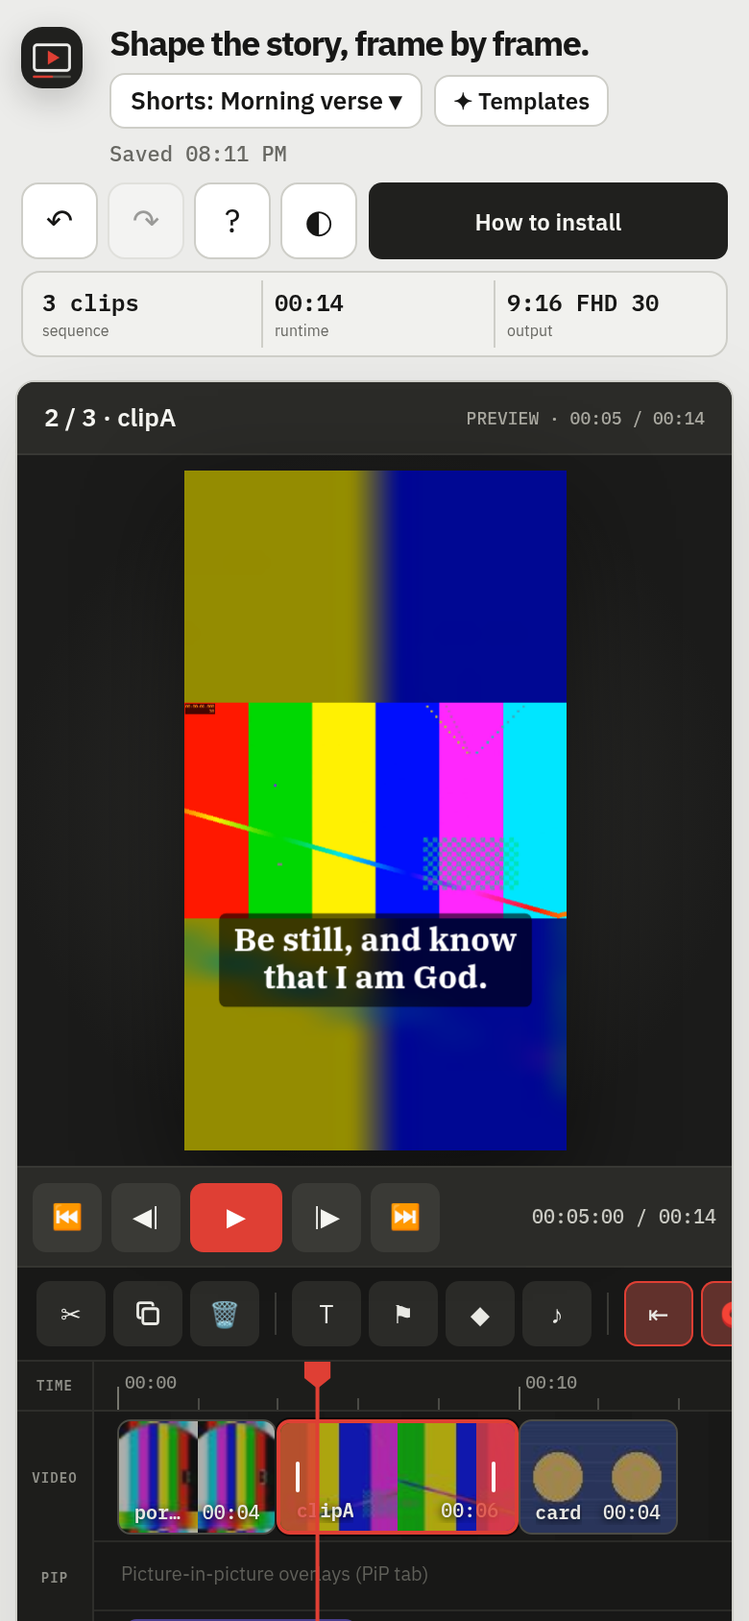
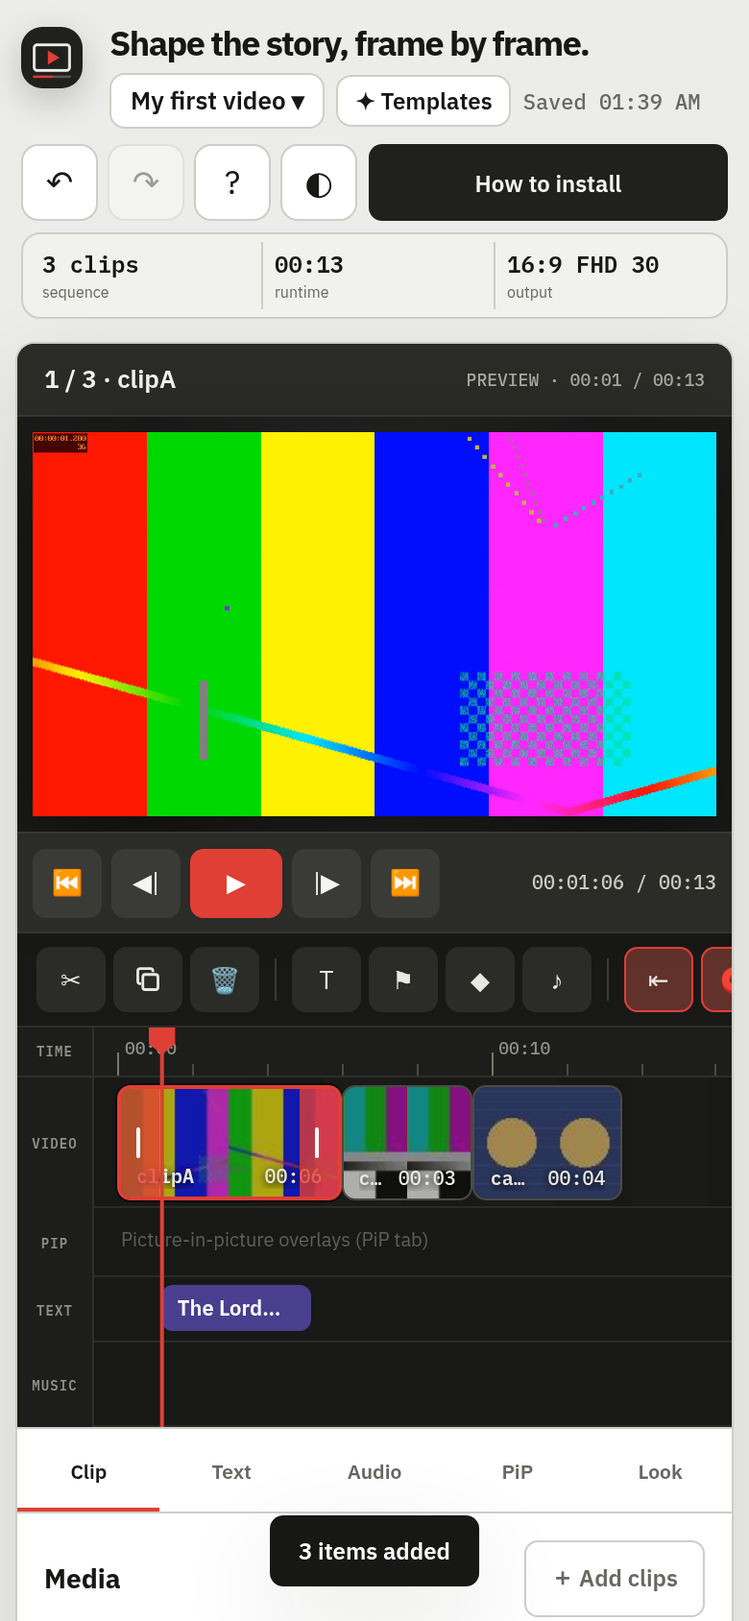
Remove the YouTube Studio link and the YouTube details tab
- Publish row: Thumbnail maker + Export only (full-width stack on phones)
- YouTube tab (title, description, tags, chapters, marker list, copy buttons) removed; chapters() removed
- Markers stay on the timeline (M / Marker button, drag, Delete); new markers are named 'Marker n'
- Export and thumbnail file names, share title and MP4 metadata use the project name
- Old saves keep their youtube data untouched and load normally; 16:9 option unchanged
- Tabs bar now 5 columns; README and tests updated

diff --git a/js/app.js b/js/app.js
@@ -4,7 +4,7 @@ import { db, mediaIdsOf, setKeepProvider } from './db.js';
 import { media, kindOf, isHeic, isMediaDataURL, seekVideo } from './media.js';
 import {
   newProject, migrate, layout, clipAt, clipLen, audioLen, newClipFromMedia, newText, newAudio, removeClip, duplicateClip,
-  moveClip, rippleShift, chapters, History, PRESETS, FONTS, outputDims, defaultColor, defaultTransform, MIN_CLIP,
+  moveClip, rippleShift, History, PRESETS, FONTS, outputDims, defaultColor, defaultTransform, MIN_CLIP,
   newOverlay, overlayLen, animated, hasKeyframes, setKeyframe, kfTimes, removeKeyframesAt, setEaseAt, ANIM_PROPS, normalizeClip,
   splitItem, audioSpan, rebaseKeyframes,
 } from './model.js';
@@ -98,7 +98,7 @@ app.seek = (t) => { player.setTime(t); };
 app.select = (sel, opts = {}) => {
   app.selection = sel;
   if (sel) {
-    const tab = { clip: 'clip', text: 'text', audio: 'audio', marker: 'youtube', overlay: 'pip' }[sel.type];
+    const tab = { clip: 'clip', text: 'text', audio: 'audio', overlay: 'pip' }[sel.type];
     if (tab) showTab(tab);
     if (opts.seekInto) {
       const t = player.t;
@@ -249,7 +249,6 @@ function afterSet(path, obj, old, before) {
   if (path === 'ovl.speed') obj.speed = clamp(Number(obj.speed) || 1, 0.25, 4);
   if (path === 'text.anim.in' || path === 'text.anim.out') { const t = selected('text'); const d = t.end - t.start; if (t.anim.inDur + t.anim.outDur > d) { t.anim.inDur = Math.min(t.anim.inDur, d * 0.6); t.anim.outDur = Math.min(t.anim.outDur, d * 0.35); } }
   if (path === 'proj.settings.ratio' || path === 'proj.settings.res') sizeStage();
-  if (path === 'proj.youtube.title' || path === 'proj.youtube.tags') updateCounts();
   if (path.startsWith('proj.settings.') && ['res', 'fps', 'quality', 'format'].includes(path.split('.')[2])) refreshCaps();
 }
 const FMT = {
@@ -361,17 +360,6 @@ function fillInspector() {
   $('logoPanel').hidden = !p.logo; $('logoHint').hidden = !!p.logo;
   const sel = !!app.selection;
   qsa('.tl-toolbar [data-action=duplicate], .tl-toolbar [data-action=delete]').forEach(b => b.disabled = !sel);
-  updateCounts();
-  renderChapters();
-}
-function updateCounts() {
-  $('titleCount').textContent = (app.project.youtube.title || '').length + '/100';
-  $('tagCount').textContent = (app.project.youtube.tags || '').length + '/500';
-}
-function renderChapters() {
-  const ch = chapters(app.project);
-  $('chaptersOut').textContent = ch.text || '—';
-  $('chapterWarn').textContent = ch.warnings.join(' ');
 }
 // Side-panel lists: rebuilt only when what they show changed (they're refreshed on every slider input event).
 const listKeys = {};
@@ -399,16 +387,6 @@ function renderLists(light) {
   const ovs = (p.overlays || []).map(o => ({ o, key: [o.id, o.name, !!(o.chroma && o.chroma.enabled), fmt(o.start), fmt(overlayLen(o)), isSel('overlay', o.id)] }));
   renderList('overlayList', ovs, ({ o }) => { const keyed = o.chroma && o.chroma.enabled; return listItem(isSel('overlay', o.id), `Overlay ${o.name}, ${fmt(o.start)}`, () => app.select({ type: 'overlay', id: o.id }, { seekInto: true }),
     el('span', { class: 'item-ico', title: keyed ? 'Green screen' : 'Picture-in-picture' }, icon(keyed ? 'key' : 'pip')), el('span', { class: 'grow', text: o.name }), el('span', { class: 't', text: fmt(o.start) + ' · ' + fmt(overlayLen(o)) })); });
-  if (light) return;
-  const ml = $('markerList'); ml.replaceChildren();
-  [...p.markers].sort((a, b) => a.time - b.time).forEach(m => {
-    const name = el('input', { value: m.name || '', 'aria-label': 'Marker name', placeholder: 'Chapter name' });
-    name.addEventListener('change', () => { m.name = name.value; app.commit('Rename marker'); });
-    ml.append(el('div', { class: 'item' + (sel.type === 'marker' && sel.id === m.id ? ' selected' : '') },
-      el('button', { type: 'button', class: 't', text: fmt(m.time), title: 'Jump', onclick: () => { app.select({ type: 'marker', id: m.id }); player.setTime(m.time); } }),
-      name,
-      el('button', { type: 'button', text: '✕', 'aria-label': 'Delete marker', onclick: () => { p.markers = p.markers.filter(x => x !== m); app.commit('Delete marker'); } })));
-  });
 }
 
 // trim controls
@@ -504,11 +482,9 @@ const actions = {
   deleteAudio() { const a = selected('audio'); if (!a) return; app.project.audio = app.project.audio.filter(x => x !== a); app.selection = null; app.commit('Remove music'); },
   addMarker() {
     const t = player.t;
-    const n = app.project.markers.length + 1;
-    const it = clipAt(layout(app.project), t);
-    const m = { id: uid('mk'), time: t, name: it && app.project.markers.length ? 'Chapter ' + (n) : (t < 0.5 ? 'Intro' : 'Chapter ' + n) };
+    const m = { id: uid('mk'), time: t, name: 'Marker ' + (app.project.markers.length + 1) };
     app.project.markers.push(m); app.selection = { type: 'marker', id: m.id };
-    app.commit('Add marker'); toast('Marker added at ' + fmt(t) + ' — rename it in the YouTube tab.');
+    app.commit('Add marker'); toast('Marker added at ' + fmt(t) + '. Drag it to move it, or select it and press Delete to remove it.');
   },
   removeLogo() { app.project.logo = null; app.commit('Remove logo'); },
   deleteOverlay() { const o = selected('overlay'); if (!o) return; app.project.overlays = app.project.overlays.filter(x => x !== o); app.selection = null; app.commit('Delete overlay'); },
@@ -1207,23 +1183,6 @@ $('themeBtn').onclick = async () => {
   applyTheme(next); db.kvSet('theme', next);
 };
 
-// ---------------------------------------------------------------- YouTube details
-function detailsText() {
-  const y = app.project.youtube, ch = chapters(app.project);
-  let s = '';
-  if (y.title.trim()) s += y.title.trim() + '\n\n';
-  if (y.description.trim()) s += y.description.trim() + '\n\n';
-  if (ch.list.length >= 3) s += 'Chapters\n' + ch.text + '\n';
-  return s.trim();
-}
-async function copy(text, msg) {
-  try { await navigator.clipboard.writeText(text); }
-  catch { const t = document.createElement('textarea'); t.value = text; document.body.appendChild(t); t.select(); document.execCommand('copy'); t.remove(); }
-  toast(msg);
-}
-$('copyDetails').onclick = () => { const t = detailsText(); if (!t) return toast('Add a title or description first.'); copy(t, 'Title, description and chapters copied.'); };
-$('copyTags').onclick = () => { const t = app.project.youtube.tags.split(',').map(s => s.trim()).filter(Boolean).join(', '); if (!t) return toast('Add some tags first.'); copy(t, 'Tags copied.'); };
-
 // ---------------------------------------------------------------- thumbnail maker
 const thumb = { canvas: $('thumbCanvas'), comp: new Compositor(), v: null };
 async function thumbFrame(t) {
@@ -1303,7 +1262,7 @@ async function thumbRefresh(refetch) {
 }
 function thumbSyncInputs() {
   const P = app.project.thumb;
-  $('thumbText').value = P.text || app.project.youtube.title || ''; $('thumbSub').value = P.sub || '';
+  $('thumbText').value = P.text || ''; $('thumbSub').value = P.sub || '';
   $('thumbFont').value = P.font; $('thumbPos').value = P.position; $('thumbColor').value = P.color; $('thumbAccent').value = P.accent;
   $('thumbTime').max = Math.max(0.01, layout(app.project).total - 0.01); $('thumbTime').value = P.time; $('thumbTimeOut').textContent = fmt(P.time);
 }
@@ -1314,7 +1273,7 @@ async function openThumb() {
   if (app.project.thumb.time == null) app.project.thumb.time = player.t; // a chosen frame at 0:00 is valid
   thumbSyncInputs(); openDialog('thumbDialog'); await thumbRefresh(true);
 }
-$('thumbBtn').onclick = openThumb; $('thumbBtn2').onclick = openThumb;
+$('thumbBtn').onclick = openThumb;
 const thumbInput = debounce(() => thumbRefresh(false), 30);
 for (const id of ['thumbText', 'thumbSub', 'thumbFont', 'thumbPos', 'thumbColor', 'thumbAccent', 'thumbDarken', 'thumbSize']) {
   $(id).addEventListener('input', () => {
@@ -1338,8 +1297,8 @@ app.thumbRefresh = thumbRefresh;
 
 // ---------------------------------------------------------------- export
 let exporting = false, abort = null, lastExport = null;
-/** Export file name (without extension) from the YouTube title, else the project name; safe on every OS. */
-function exportBaseName(p) { return safeName((p.youtube.title || '').trim() || p.name, 'video'); }
+/** Export file name (without extension) from the project name; safe on every OS. */
+function exportBaseName(p) { return safeName(p.name, 'video'); }
 async function refreshCaps() {
   const c = await capabilities(app.project);
   app.caps = c;
@@ -1421,11 +1380,11 @@ $('exportBtn').onclick = async () => {
     const where = res.streamed === 'file' ? ' · saved directly to your disk' : res.streamed === 'opfs' ? ' · streamed to disk while rendering' : '';
     // built from text nodes: a picked file name can contain < > & quotes
     $('exportResultText').replaceChildren(el('b', { text: name }), ` · ${res.width}×${res.height} · ${res.fps} fps · ${fmt(res.duration)} · ${fmtBytes(res.blob.size)}`, el('br'),
-      el('span', { class: 'hint', text: `${res.method}${where} · rendered in ${fmtDuration(took)}. Upload it in YouTube Studio.` }));
+      el('span', { class: 'hint', text: `${res.method}${where} · rendered in ${fmtDuration(took)}. Ready to upload.` }));
     $('downloadAgain').href = lastExport.url; $('downloadAgain').download = name;
     const file = new File([res.blob], name, { type: res.mime });
     $('shareExport').hidden = !(navigator.canShare && navigator.canShare({ files: [file] }));
-    $('shareExport').onclick = () => navigator.share({ files: [file], title: p.youtube.title || p.name }).catch(() => { });
+    $('shareExport').onclick = () => navigator.share({ files: [file], title: p.name }).catch(() => { });
     $('exportResult').hidden = false;
     $('outputNote').textContent = 'Export complete.'; $('outputNote').classList.add('status-good');
     if (!handleUnused) toast((res.streamed === 'file' ? 'Video saved: ' : 'Video exported: ') + name);
@@ -1511,7 +1470,6 @@ async function applyTemplate(t, mode) {
     await createProject(t.name);
     Object.assign(app.project.settings, { ratio: t.ratio || '16:9' }, spec.settings || {});
     if (app.project.settings.ratio === '9:16' && app.project.settings.bg === 'black') app.project.settings.bg = 'blur';
-    if (t.id !== 'lowerThird') app.project.youtube.title = '';
     player.setTime(0);
   }
   const p = app.project;

diff --git a/css/app.css b/css/app.css
@@ -158,7 +158,7 @@ button:focus-visible,a:focus-visible,input:focus-visible,textarea:focus-visible,
 
 /* inspector */
 .inspector{grid-area:inspector;min-width:0;background:var(--surface);border-left:1px solid var(--line);display:flex;flex-direction:column;min-height:0;contain:size}
-.tabs{display:grid;grid-template-columns:repeat(6,1fr);height:44px;border-bottom:1px solid var(--line);flex:none}
+.tabs{display:grid;grid-template-columns:repeat(5,1fr);height:44px;border-bottom:1px solid var(--line);flex:none}
 .tabs button{border:0;background:transparent;color:var(--muted);font-size:12px;font-weight:600;cursor:pointer;padding:0}
 .tabs button.active{color:var(--ink);box-shadow:inset 0 -2px var(--accent)}
 .tab-panel{display:none;padding:16px;overflow-y:auto;min-height:0;flex:1}
@@ -171,7 +171,6 @@ button:focus-visible,a:focus-visible,input:focus-visible,textarea:focus-visible,
 .hint{color:var(--muted);font-size:11px;line-height:1.45;margin:0}
 .hint.warn{color:var(--warn)}
 .label{display:block;margin:0 0 6px;color:var(--muted);font-size:11px;font-weight:600}
-.label .count{float:right;font-weight:500;font-family:"IBM Plex Mono",monospace}
 .field,textarea,select{width:100%;min-height:40px;color:var(--ink);background:var(--surface-2);border:1px solid transparent;border-radius:7px;padding:9px 10px}
 .field.color{padding:4px;height:40px;cursor:pointer}
 .field:focus,textarea:focus,select:focus{border-color:var(--accent);outline:none}
@@ -192,12 +191,12 @@ textarea{min-height:88px;resize:vertical;line-height:1.4}
 .slider-row output{text-align:right;font:10px "IBM Plex Mono",monospace;color:var(--muted)}
 input[type=range]{accent-color:var(--accent);min-width:0;width:100%;height:24px}
 .button-row{display:flex;gap:7px;flex-wrap:wrap}
-.btn,.link-btn{min-height:40px;border:0;border-radius:7px;padding:9px 13px;display:inline-flex;align-items:center;justify-content:center;gap:7px;text-decoration:none;cursor:pointer;font-weight:600;font-size:12px}
+.btn{min-height:40px;border:0;border-radius:7px;padding:9px 13px;display:inline-flex;align-items:center;justify-content:center;gap:7px;text-decoration:none;cursor:pointer;font-weight:600;font-size:12px}
 .btn.small{min-height:32px;padding:6px 10px;font-size:11px}
 .btn.primary{background:var(--accent);color:var(--accent-ink)}
 .btn.primary:hover{background:color-mix(in srgb,var(--accent) 88%,#000)}
-.btn.secondary,.link-btn{background:var(--surface-2);color:var(--ink)}
-.btn.secondary:hover,.link-btn:hover{background:var(--surface-3)}
+.btn.secondary{background:var(--surface-2);color:var(--ink)}
+.btn.secondary:hover{background:var(--surface-3)}
 .btn.secondary.on{box-shadow:inset 0 0 0 2px var(--accent)}
 .btn.ghost{background:transparent;color:var(--muted);border:1px solid var(--line)}
 .btn.danger{color:var(--accent)}
@@ -218,7 +217,6 @@ input[type=file]{display:none}
 .item .t{font:10px "IBM Plex Mono",monospace;color:var(--muted)}
 .item input{background:transparent;border:0;color:var(--ink);font-size:12px;min-width:0;flex:1;padding:4px}
 .item button{border:0;background:transparent;color:var(--muted);cursor:pointer;font-size:13px;padding:4px 6px}
-.chapters{white-space:pre-wrap;background:var(--surface-2);border-radius:7px;padding:10px;font-size:11px;margin:0;min-height:40px;max-height:180px;overflow:auto}
 .offline-banner{margin-bottom:16px;padding:12px;border-radius:9px;background:var(--accent-soft)}
 .offline-banner p{margin:0 0 8px;font-size:12px}
 
@@ -297,7 +295,7 @@ kbd{font:600 11px "IBM Plex Mono",monospace;background:var(--surface-2);border:1
   .tl-head{font-size:7px}
   .publish{grid-template-columns:1fr}
   .export-settings{grid-template-columns:1fr 1fr}
-  .publish-actions{display:grid;grid-template-columns:1fr 1fr;justify-content:stretch}
+  .publish-actions{display:grid;grid-template-columns:1fr;justify-content:stretch}
   .publish-actions .primary{grid-column:1/-1;order:-1}
   .tab-panel{padding:14px}
   .tabs button{font-size:11px}

diff --git a/index.html b/index.html
@@ -115,7 +115,6 @@
         <button data-tab="audio" type="button" role="tab">Audio</button>
         <button data-tab="pip" type="button" role="tab">PiP</button>
         <button data-tab="look" type="button" role="tab">Look</button>
-        <button data-tab="youtube" type="button" role="tab">YouTube</button>
       </div>
 
       <!-- CLIP -->
@@ -131,7 +130,7 @@
           </div>
           <section class="section">
             <div class="section-head"><h2 id="clipTitle">Clip</h2><span class="hint mono" id="clipLenLabel">00:00</span></div>
-            <label><span class="label">Name (used for chapters)</span><input class="field" data-bind="clip.name" data-commit="change" maxlength="80" /></label>
+            <label><span class="label">Name</span><input class="field" data-bind="clip.name" data-commit="change" maxlength="80" /></label>
             <div id="trimBlock">
               <div class="field-row" style="margin-top:10px">
                 <label><span class="label">In point (s)</span><input class="field mono" id="clipIn" type="number" min="0" step="0.1" /></label>
@@ -410,29 +409,6 @@
         </section>
       </div>
 
-      <!-- YOUTUBE -->
-      <div class="tab-panel" id="tab-youtube">
-        <section class="section">
-          <h2 class="sh">YouTube details</h2>
-          <label><span class="label">Video title <span class="count" id="titleCount">0/100</span></span><input class="field" data-bind="proj.youtube.title" data-commit="change" maxlength="100" placeholder="Write a clear, searchable title" /></label>
-          <label style="display:block;margin-top:10px"><span class="label">Description</span><textarea data-bind="proj.youtube.description" data-commit="change" maxlength="5000" placeholder="Summary, scripture reference, and viewer prompt…"></textarea></label>
-          <label style="display:block;margin-top:10px"><span class="label">Tags (comma separated) <span class="count" id="tagCount">0/500</span></span><input class="field" data-bind="proj.youtube.tags" data-commit="change" placeholder="faith, devotional, bible study" /></label>
-        </section>
-        <section class="section">
-          <div class="section-head"><h2>Chapters</h2><select class="mini-select" data-bind="proj.youtube.chaptersFrom"><option value="auto">Markers, else clips</option><option value="clips">Clip names</option></select></div>
-          <pre class="chapters mono" id="chaptersOut"></pre>
-          <p class="hint warn" id="chapterWarn"></p>
-          <div class="section-head" style="margin-top:12px"><h2>Markers</h2><button class="btn ghost small" data-action="addMarker" type="button">＋ Marker at playhead (M)</button></div>
-          <div class="item-list" id="markerList"></div>
-        </section>
-        <section class="section">
-          <div class="button-row">
-            <button class="btn primary" id="copyDetails" type="button">Copy title, description &amp; chapters</button>
-            <button class="btn secondary" id="copyTags" type="button">Copy tags</button>
-            <button class="btn secondary" id="thumbBtn2" type="button">Thumbnail maker</button>
-          </div>
-        </section>
-      </div>
     </aside>
 
     <div class="timeline-panel">
@@ -468,7 +444,6 @@
     </div>
     <div class="publish-actions">
       <button class="btn secondary" id="thumbBtn" type="button" disabled>Thumbnail maker</button>
-      <a class="link-btn" href="https://www.youtube.com/upload" target="_blank" rel="noopener noreferrer">YouTube Studio ↗</a>
       <button class="btn primary" id="exportBtn" type="button" disabled>Export video</button>
     </div>
     <div class="progress" id="progress" aria-live="polite">

diff --git a/js/model.js b/js/model.js
@@ -1,5 +1,5 @@
 // Project data model, timeline layout, edit operations, audio envelopes, history.
-import { uid, clamp, deepClone, fmt } from './util.js';
+import { uid, clamp, deepClone } from './util.js';
 
 export const SCHEMA = 5;
 export const MIN_CLIP = 0.1; // seconds on timeline
@@ -36,7 +36,6 @@ export function newProject(name = 'Untitled project') {
     color: defaultColor(),
     clips: [], overlays: [], texts: [], audio: [], markers: [],
     logo: null,
-    youtube: { title: '', description: '', tags: '', chaptersFrom: 'auto' },
     thumb: { time: null, text: '', sub: '', color: '#ffffff', accent: '#df3f34', font: 'sans', position: 'left', style: 'shadow' },
   };
 }
@@ -46,7 +45,6 @@ export function migrate(p) {
   const out = Object.assign(base, p);
   out.settings = Object.assign(base.settings, p.settings || {});
   out.color = Object.assign(defaultColor(), p.color || {});
-  out.youtube = Object.assign(newProject().youtube, p.youtube || {});
   out.thumb = Object.assign(newProject().thumb, p.thumb || {});
   out.clips = (p.clips || []).map(c => normalizeClip(c));
   out.texts = (p.texts || []).map(t => { const b = newText(0); const r = Object.assign(b, t); r.anim = Object.assign(newText(0).anim, t.anim || {}); r.keyframes = t.keyframes || {}; return r; });
@@ -584,30 +582,6 @@ export function moveClip(project, from, to) {
   if (from === to || from < 0 || from >= project.clips.length) return;
   const [c] = project.clips.splice(from, 1);
   project.clips.splice(clamp(to, 0, project.clips.length), 0, c);
-}
-
-// ---------- YouTube chapters ----------
-export function chapters(project) {
-  const lay = layout(project);
-  let pts;
-  const useMarkers = project.markers.length > 0 && project.youtube.chaptersFrom !== 'clips';
-  if (useMarkers) pts = project.markers.map(m => ({ t: m.time, name: m.name || 'Chapter' }));
-  else pts = lay.items.map(it => ({ t: it.start + (it.xIn || 0) / 2, name: it.clip.name || 'Part ' + (it.index + 1) }));
-  pts.sort((a, b) => a.t - b.t);
-  if (!pts.length) return { list: [], warnings: ['Add clips or markers to generate chapters.'] };
-  if (pts[0].t > 0.5) pts.unshift({ t: 0, name: 'Intro' }); else pts[0].t = 0;
-  // YouTube requires >= 10s per chapter: merge short ones into previous
-  const out = [];
-  let merged = 0;
-  for (const p of pts) {
-    if (out.length && p.t - out[out.length - 1].t < 10) { merged++; continue; }
-    out.push({ ...p });
-  }
-  const warnings = [];
-  if (merged) warnings.push(merged + ' chapter point(s) closer than 10 s to the previous one were skipped (YouTube minimum).');
-  if (out.length && lay.total - out[out.length - 1].t < 10 && out.length > 1) { out.pop(); warnings.push('The last chapter would be shorter than 10 s, so it was dropped.'); }
-  if (out.length < 3) warnings.push('YouTube needs at least 3 chapters of 10 seconds or longer — add markers to fine-tune.');
-  return { list: out, warnings, text: out.map(p => fmt(p.t) + ' ' + p.name).join('\n') };
 }
 
 // ---------- History (snapshot based) ----------

diff --git a/js/templates.js b/js/templates.js
@@ -1,6 +1,6 @@
 // Starter templates for faith / devotional videos and Shorts.
 // Each template produces background image "clips" (generated on a canvas), text layers with
-// animation presets, optional keyframes and chapter markers — everything stays editable.
+// animation presets, optional keyframes and section markers — everything stays editable.
 import { newText } from './model.js';
 
 const rnd = (seed) => () => { seed = (seed * 16807) % 2147483647; return (seed - 1) / 2147483646; };
@@ -116,7 +116,7 @@ export const TEMPLATES = [
   },
   {
     id: 'sermon', name: 'Sermon / devotional outline', icon: '🎙', ratio: '16:9',
-    desc: 'Title card, three points and a closing prayer — with YouTube chapter markers.',
+    desc: 'Title card, three points and a closing prayer — with section markers.',
     build: () => {
       const bg = (seed, c) => ({ colors: c, rays: seed % 2 === 1, bokeh: seed % 2 === 0, seed });
       const secs = [

diff --git a/js/exporter.js b/js/exporter.js
@@ -174,7 +174,7 @@ async function exportFast(project, media, { onProgress, signal, format, openSink
   output.addVideoTrack(vsrc, { frameRate: fps });
   let asrc = null;
   if (withAudio) { asrc = new mb.AudioBufferSource({ codec: acodec, bitrate: 192000 }); output.addAudioTrack(asrc); }
-  output.setMetadataTags && output.setMetadataTags({ title: project.youtube.title || project.name });
+  output.setMetadataTags && output.setMetadataTags({ title: project.name });
   await output.start();
 
   // --- frame plan: which clips are visible on each frame and at which source time

diff --git a/sw.js b/sw.js
@@ -1,5 +1,5 @@
 /* Video Editor service worker: offline app shell (versioned cache) + share target inbox. */
-const VERSION = 'v53c9409050';
+const VERSION = 'v9519012ce0';
 const CACHE = 'video-editor-shell-' + VERSION;
 const SHELL = [
   './', './index.html', './manifest.webmanifest',

diff --git a/README.md b/README.md
@@ -17,7 +17,7 @@ The app is plain static files (HTML, CSS and ES modules). There's no build step.
 - **Chroma key (green screen)** for overlays: a key color (with "Pick from preview"), similarity, smoothness and spill suppression. It runs in a WebGL shader in both preview and export.
 - **Voiceover:** record from the microphone straight into a voice track at the playhead. It shows a live level meter and a timer, and after each take you can listen back, then keep it, retake it or discard it. The video can play (muted) while you record. Music ducks under voice tracks automatically. Shortcut: `R` starts a 3-second countdown (press `R` or `Esc` again to cancel), and `R` during a take stops it. The microphone is released as soon as a take ends.
 - **Music tracks:** trim, offset, volume, fade in/out, **Loop** (repeats the trimmed section until the video ends, or for a length you set; loop seams show on the timeline), and optional auto-ducking under clip audio and voiceovers. A track never ducks under itself. The timeline shows a waveform.
-- **Starter templates:** Scripture verse card, Channel intro, Shorts quote (9:16), Lower-third name, and Sermon/devotional outline with chapter markers. Each one creates a new project or is inserted at the playhead, with generated backgrounds, animated text and slow-zoom keyframes. Everything stays editable.
+- **Starter templates:** Scripture verse card, Channel intro, Shorts quote (9:16), Lower-third name, and Sermon/devotional outline with section markers. Each one creates a new project or is inserted at the playhead, with generated backgrounds, animated text and slow-zoom keyframes. Everything stays editable.
 - **Export:**
   - Settings: 720p, 1080p or 4K; 24, 30 or 60 fps; three quality levels; Auto, MP4 or WebM. **Auto** makes an MP4 where the browser can encode H.264 and otherwise a WebM (VP9/VP8), in both engines. The file extension always matches the container, and the file is named after the YouTube title, or the project name when that is empty (letters in any language, digits, dots and dashes are kept).
   - A progress bar shows the ETA and render speed, and you can cancel.
@@ -25,7 +25,6 @@ The app is plain static files (HTML, CSS and ES modules). There's no build step.
   - **Fast engine:** WebCodecs through the vendored [Mediabunny](https://mediabunny.dev) library (MPL-2.0). It decodes and encodes frame by frame, so it isn't tied to real time and audio/video sync is frame-accurate.
   - **Fallback engine:** a real-time canvas + MediaRecorder recording. It prefers MP4 when the browser supports it and falls back to WebM.
 - **Thumbnail maker:** pick a frame, add a headline, a small line and an accent color, then download a 1280×720 JPG (kept under 2 MB).
-- **YouTube details:** title, description and tags with character counters. Chapters are generated from markers (or clip names) using YouTube's rules (starts at 00:00, at least 3 chapters, each at least 10 s). There are copy buttons.
 - **Projects:** the project and its media blobs autosave to IndexedDB. A status label shows *Unsaved changes*, *Saving…*, *Saved hh:mm* or *Save failed – retrying*, and failed saves retry automatically. Older saved projects are migrated to the current schema when they open. The project list lets you create, open, rename, duplicate and delete. Switching projects saves pending edits first and frees the previous project's decoded media. You can export a project as a small `.vedit.json` (media stays on the device) or, with media included, as a `.vedit` file: a standard tar archive holding `project.json` plus each media file as raw bytes, streamed straight from storage (no base64, so it's about the size of the media). Older `.vedit.json` files with base64-embedded media still import. Media that wasn't embedded can be relinked.
 - **PWA:**
   - A real manifest with icons, including maskable and Apple touch icons.
